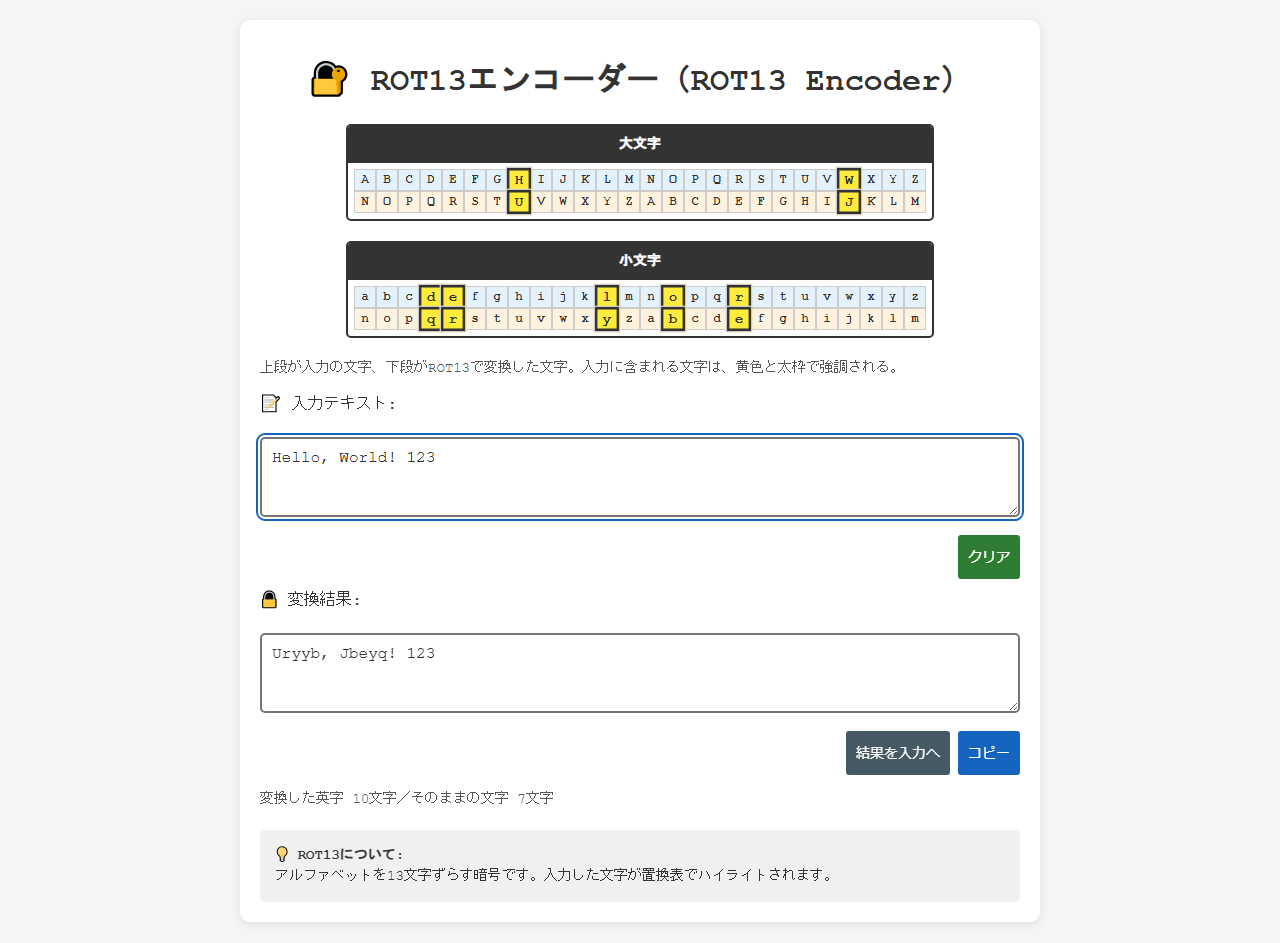
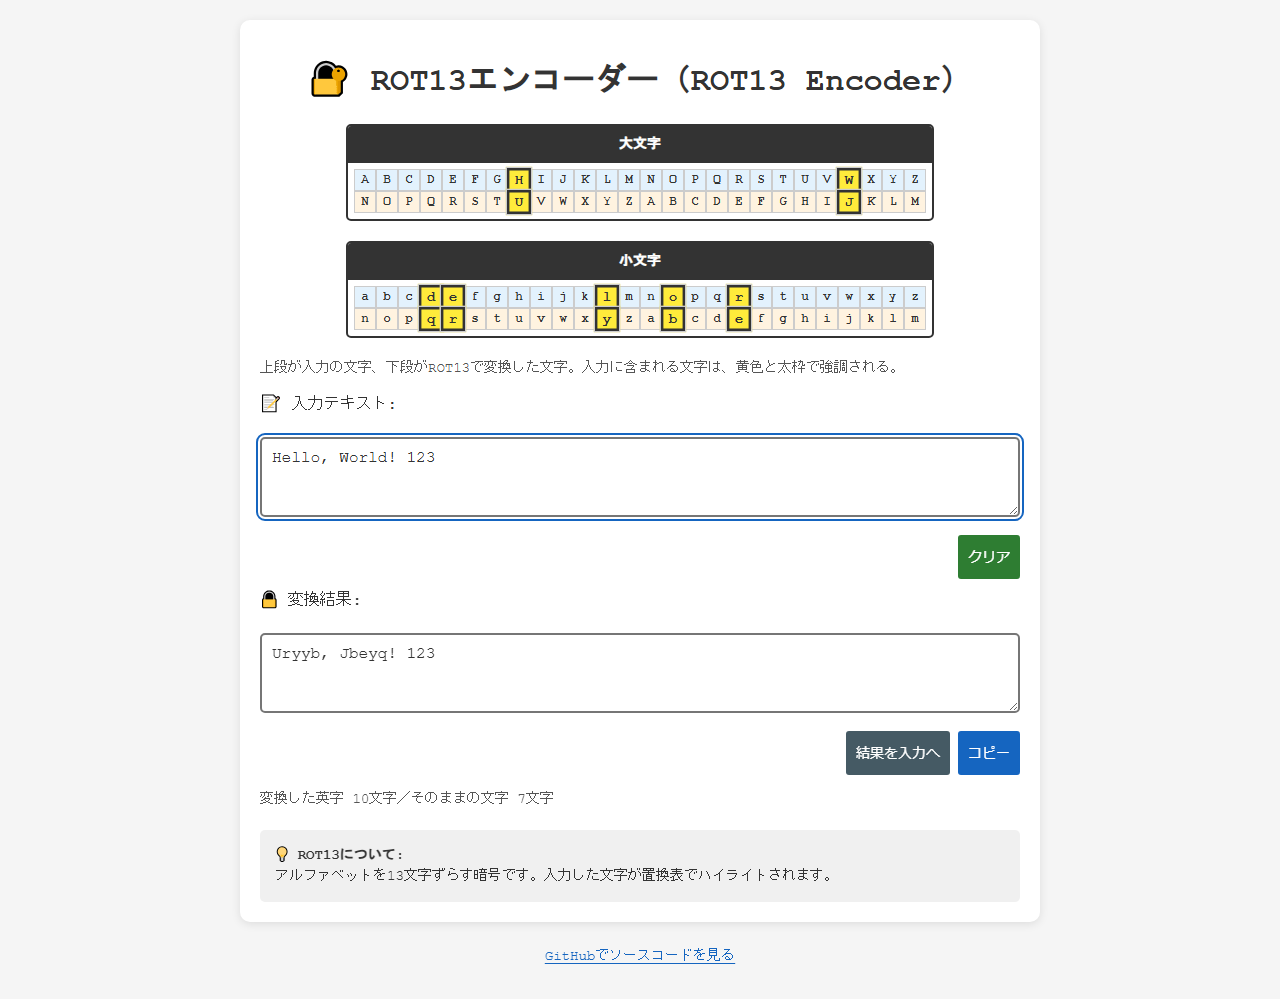
画像の中央揃えとGitHubへのフッターを修正
- README画像の中央配置とフッターの操作性を改善

- 回帰テスト4件を追加しスクリーンショットを更新

diff --git a/test/contrast.test.js b/test/contrast.test.js
@@ -22,13 +22,14 @@ const textPairs = [
     ['text', 'cell-plain'], ['text', 'cell-cipher'], ['text', 'cell-highlight'],
     ['muted', 'surface'], ['on-accent', 'title-bg'], ['on-accent', 'btn-clear'],
     ['on-accent', 'btn-clear-hover'], ['on-accent', 'btn-copy'], ['on-accent', 'btn-copy-hover'],
-    ['on-accent', 'btn-swap'], ['on-accent', 'btn-swap-hover'], ['hint-text', 'hint-bg']
+    ['on-accent', 'btn-swap'], ['on-accent', 'btn-swap-hover'], ['hint-text', 'hint-bg'],
+    ['btn-copy', 'page-bg'], ['btn-copy-hover', 'page-bg']
 ];
 const nonTextPairs = [
     ['border', 'surface'], ['focus', 'surface'], ['focus', 'page-bg'],
     ['highlight-frame', 'cell-plain'], ['highlight-frame', 'cell-cipher'], ['highlight-frame', 'cell-highlight']
 ];
-assert.equal(textPairs.length, 15);
+assert.equal(textPairs.length, 17);
 assert.equal(nonTextPairs.length, 6);
 for (const [label, pairs, minimum] of [['文字', textPairs, 4.5], ['非テキスト', nonTextPairs, 3]]) {
     for (const [foreground, background] of pairs) {

diff --git a/test/html.test.js b/test/html.test.js
@@ -54,6 +54,14 @@ test('HTMLの見出し、main、noscript、通知領域が仕様に一致する'
     assert.doesNotMatch(tag('stats') + tag('output'), /aria-live|role="status"/);
 });
 
+test('mainの外にGitHubリポジトリーへ戻るフッターリンクがある', () => {
+    const footer = html.match(/<footer\b[^>]*class="site-footer"[^>]*>([\s\S]*?)<\/footer>/)?.[1];
+    assert.ok(footer, 'フッターが必要');
+    assert.ok(html.indexOf('</main>') < html.indexOf('<footer'));
+    assert.match(footer, /<a href="https:\/\/github\.com\/ipusiron\/rot13-encoder">GitHubでソースコードを見る<\/a>/);
+    assert.doesNotMatch(footer, /target="_blank"/);
+});
+
 for (const token of ['innerHTML', 'execCommand', 'alert(', 'console.log', '.style.', 'onclick']) {
     test(`DOM処理に${token}を含まない`, () => assert.ok(!script.includes(token)));
 }

diff --git a/styles.css b/styles.css
@@ -207,9 +207,30 @@ textarea {
 }
 
 textarea:focus-visible,
-button:focus-visible {
+button:focus-visible,
+.site-footer a:focus-visible {
     outline: 2px solid var(--focus);
     outline-offset: 2px;
+}
+
+.site-footer {
+    margin-top: 12px;
+    text-align: center;
+    font-size: 14px;
+}
+
+.site-footer a {
+    display: inline-flex;
+    align-items: center;
+    justify-content: center;
+    min-height: 44px;
+    padding: 0 8px;
+    color: var(--btn-copy);
+    text-underline-offset: 3px;
+}
+
+.site-footer a:hover {
+    color: var(--btn-copy-hover);
 }
 
 @media (max-width: 700px) {

diff --git a/index.html b/index.html
@@ -52,6 +52,10 @@
         </div>
     </main>
 
+    <footer class="site-footer">
+        <a href="https://github.com/ipusiron/rot13-encoder">GitHubでソースコードを見る</a>
+    </footer>
+
     <script src="rot13.js" defer></script>
     <script src="script.js" defer></script>
 </body>

diff --git a/README.md b/README.md
@@ -56,15 +56,21 @@ ROT13（Caesar cipher with shift 13）の動作原理を視覚的に学習でき
 
 ## 📸 スクリーンショット
 
-![デスクトップでのROT13変換](assets/screenshot.png)
+<p align="center">
+  <img src="assets/screenshot.png" alt="デスクトップでのROT13変換">
+</p>
 
 > *「Hello, World! 123」を変換し、対応する文字を黄色と太枠で強調しています。*
 
-![スマートフォンでのROT13変換](assets/screenshot2.png)
+<p align="center">
+  <img src="assets/screenshot2.png" alt="スマートフォンでのROT13変換" width="390">
+</p>
 
 > *幅390pxでは、置換表を13列×2段に折り返して表示します。*
 
-![全角英字を含む入力の注意表示](assets/screenshot3.png)
+<p align="center">
+  <img src="assets/screenshot3.png" alt="全角英字を含む入力の注意表示">
+</p>
 
 > *「ＨＥＬＬＯ hello」の半角英字だけを変換し、全角英字についての注意を表示します。*
 
